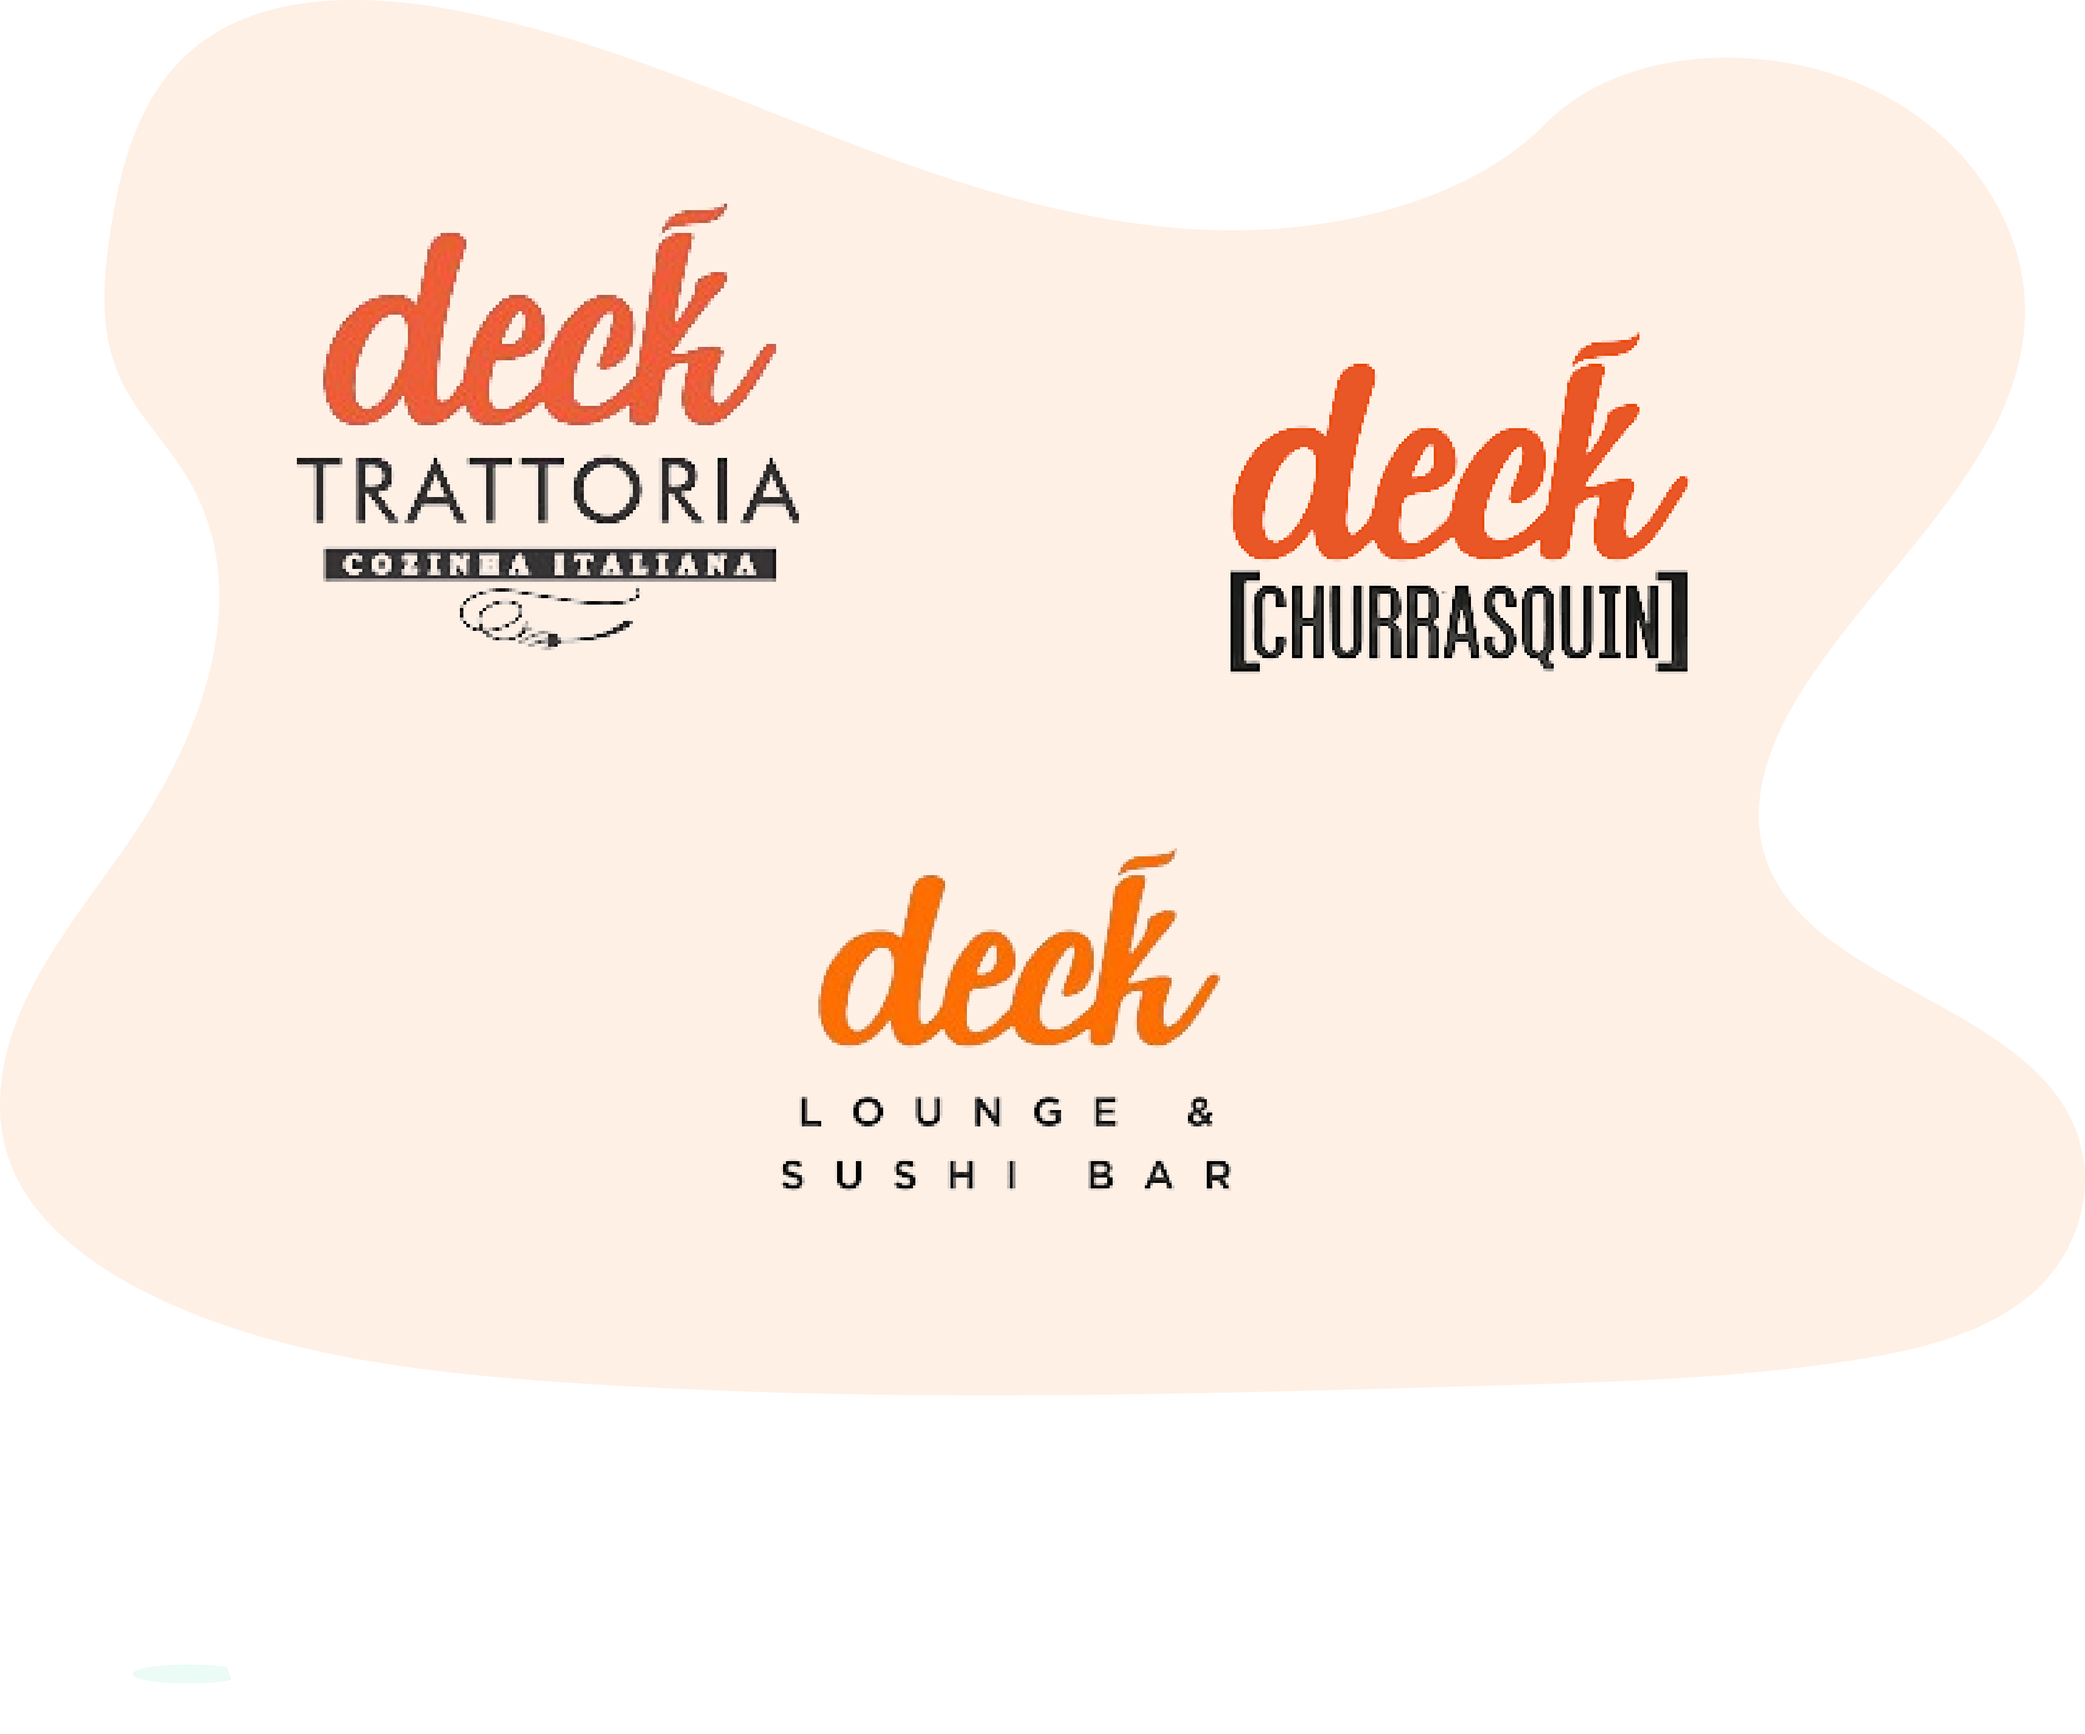
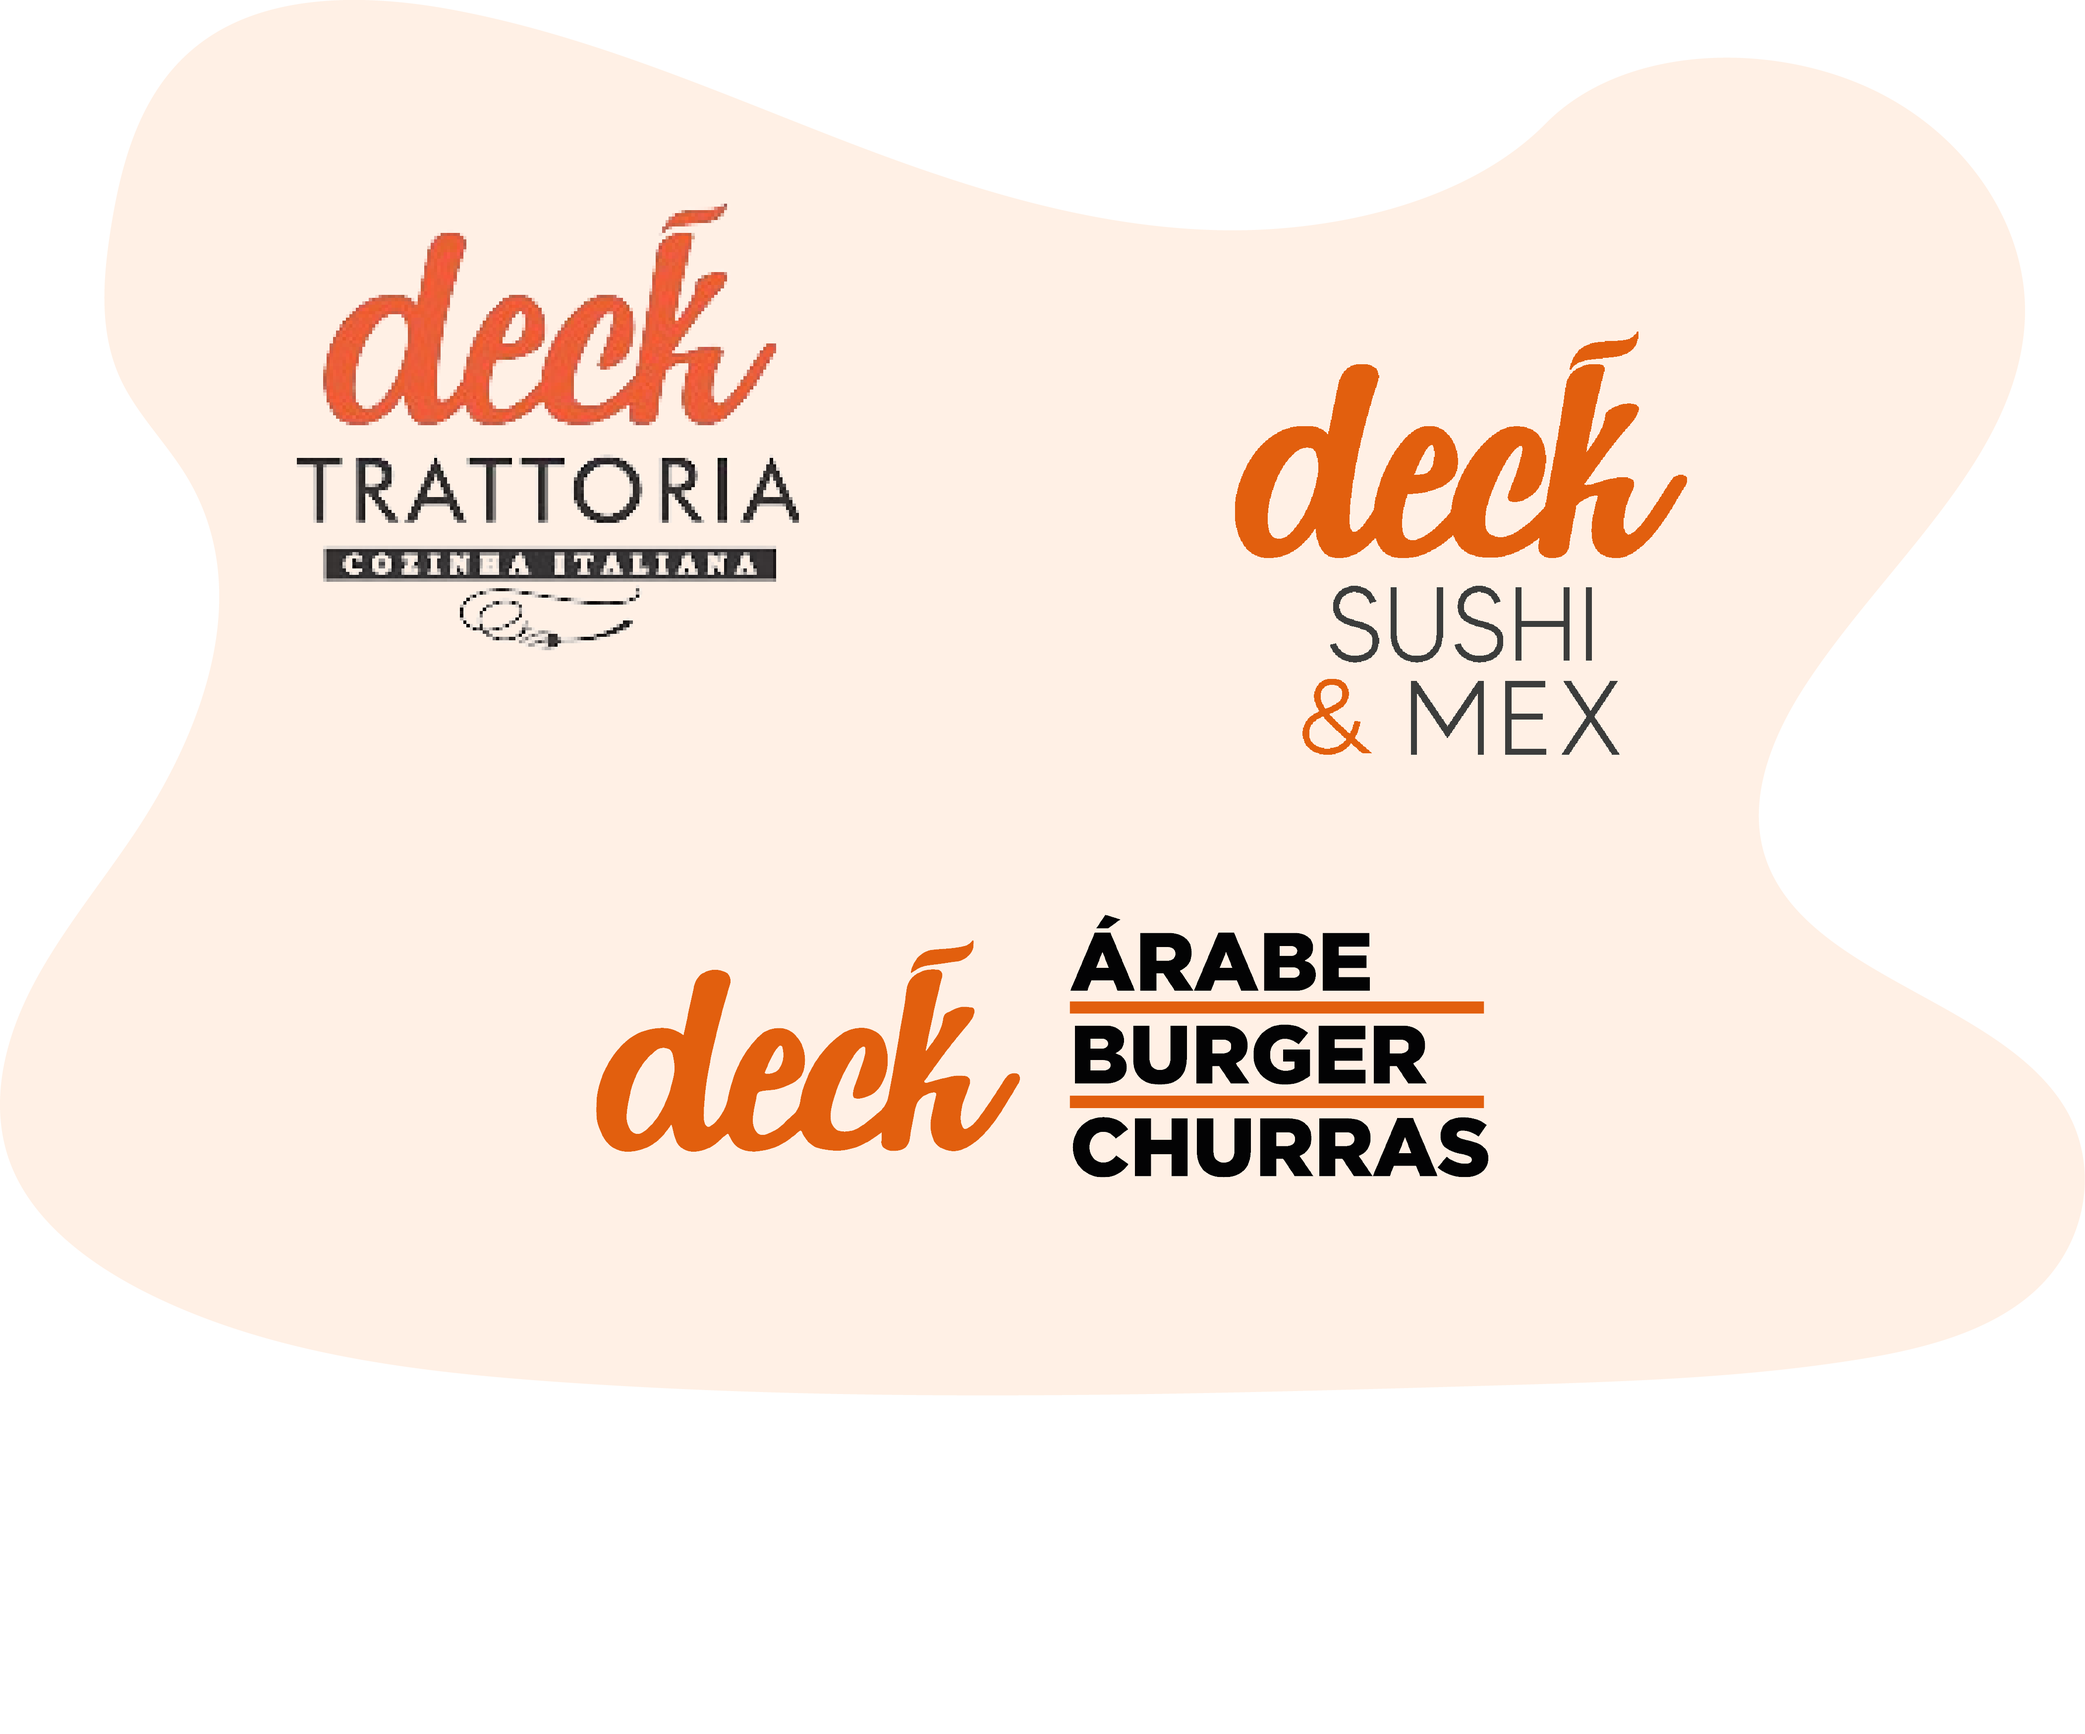
adjustments marketing

Changed region(s): [[0.2802, 0.4673, 0.7162, 0.6853], [0.5916, 0.1869, 0.8096, 0.4361]]

diff --git a/api/functions.php b/api/functions.php
@@ -48,7 +48,7 @@ function registerClient($data) {
 
     $email = $data['email'];
     $subject = "Confirmação de Registro - Voucher do Deck";
-    $message = "Olá " . $data['nome'] . ",\n\nVocê se registrou com sucesso na promoção Chopp Grátis do Deck !\n\nSeu código do voucher é: " . $voucherCode . "\n\nApresente este código no caixa de uma das seguintes unidades para resgatar o seu Chopp Grátis:\n• DECK TRATTORIA\n• DECK SUSHI\n• DECK CHURRASQUINHO\n\nObrigado!";
+    $message = "Olá " . $data['nome'] . ",\n\nVocê se registrou com sucesso na promoção Chopp Grátis do Deck !\n\nSeu código do voucher é: " . $voucherCode . "\n\nApresente este código no caixa de uma das seguintes unidades para resgatar o seu Chopp Grátis:\n• DECK TRATTORIA\n• DECK SUSHI\n• DECK ABC\n\nObrigado!";
     $headers = "From: Vem Pro Deck! marketing@vemprodeck.com.br\r\n";
     mail($email, $subject, $message, $headers);
     

diff --git a/api/regulamento.php b/api/regulamento.php
@@ -1,0 +1,11 @@
+<?php
+
+$response = [
+    'campanha' => 'Título da Campanha',
+    'message' => 'Este é o texto dos termos, condições e políticas da campanha.',
+];
+
+header('Content-Type: application/json');
+
+echo json_encode($response);
+?>
